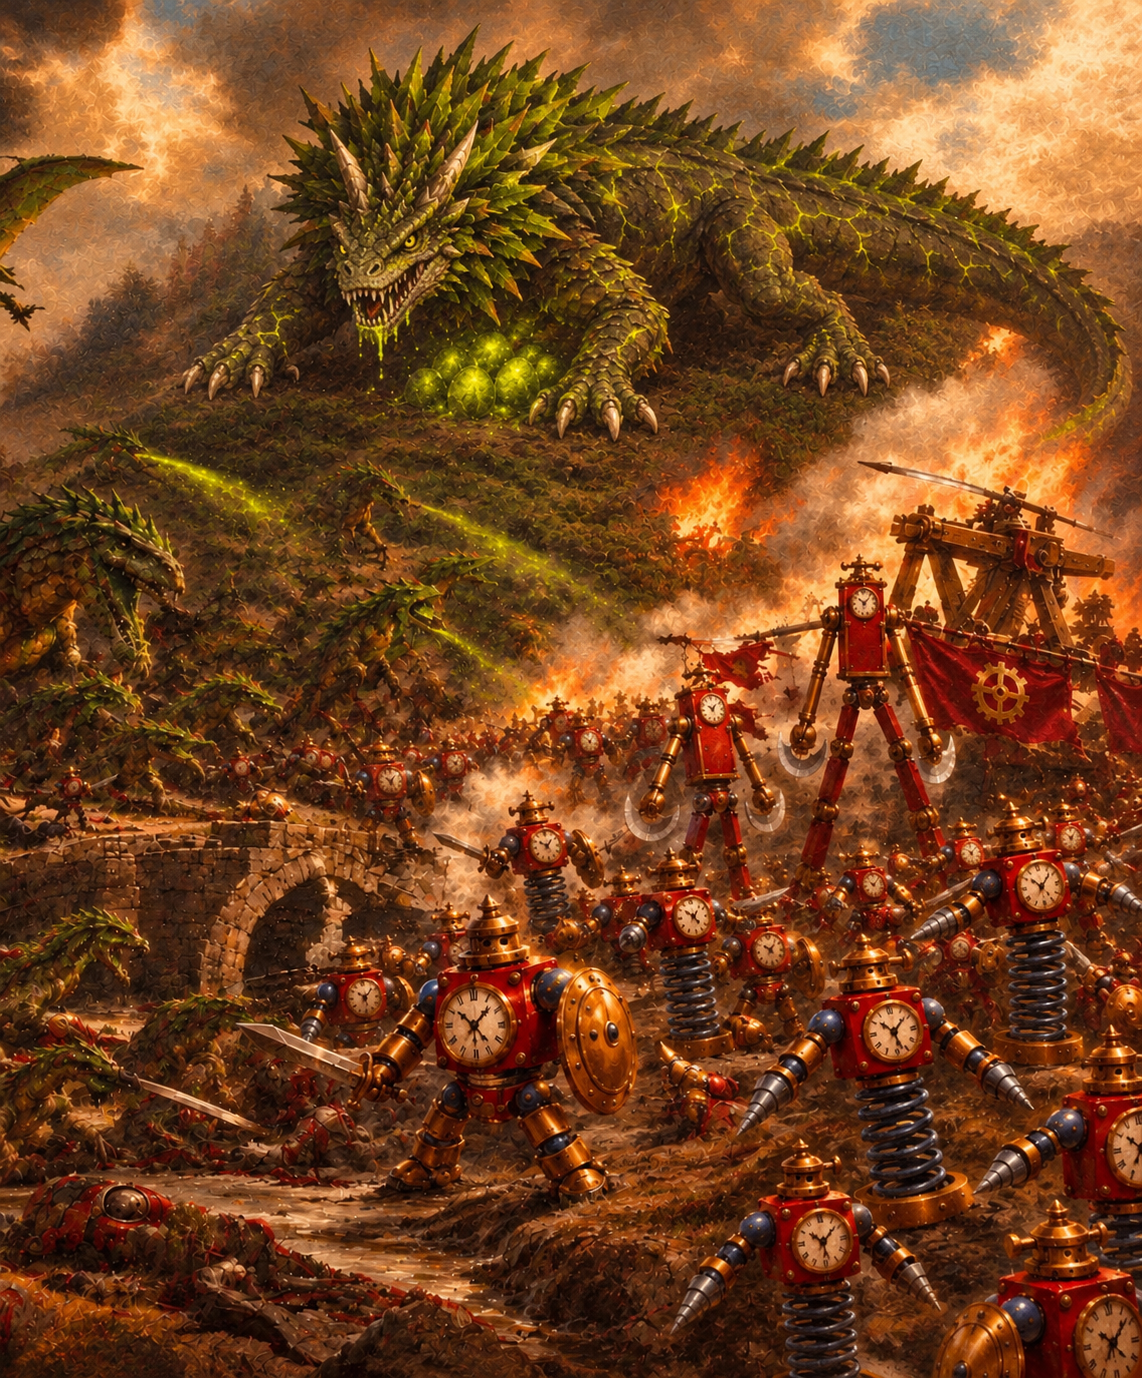
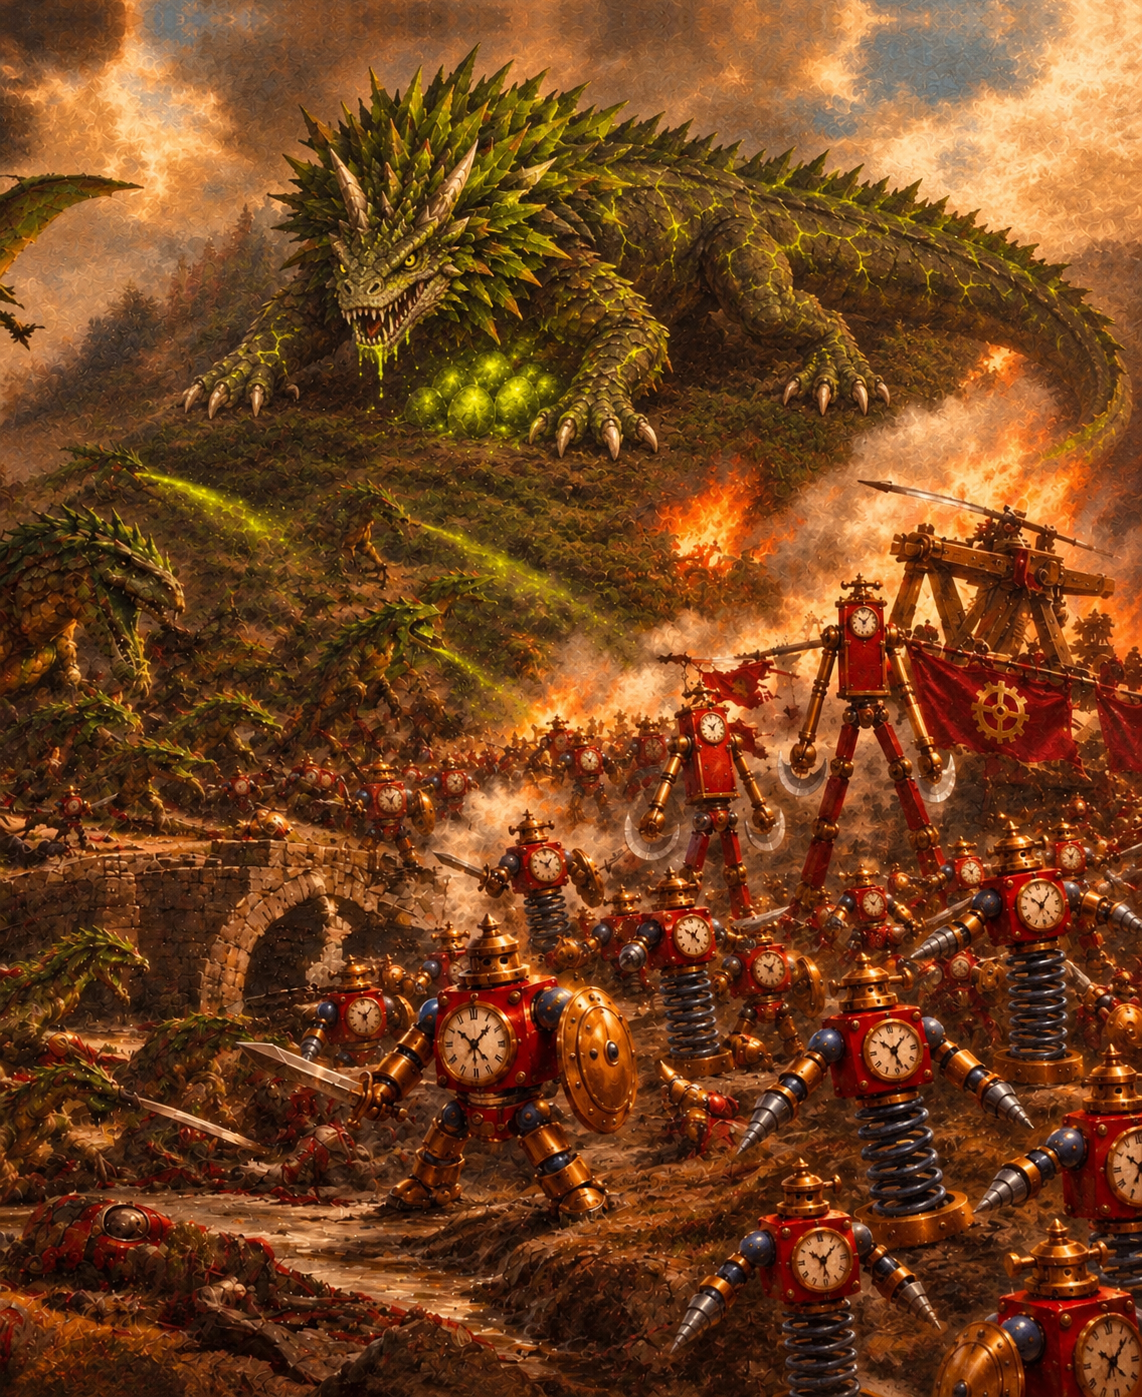
0.33.33: the ghost spikes behind the Brood Mother removed (the repaint now reaches the painting's top edge)
Claude-Session: https://claude.ai/code/session_01NtmEZhP1uA8k4DLQ7BYfMz

diff --git a/README.md b/README.md
@@ -2,7 +2,7 @@
 
 *(a working title: the game was called Holdfast until October 2026, but that name belongs to another game; the web address, the app file and the repository keep the old name for now so links and installs keep working)*
 
-**Play in your browser (version 0.33.32): https://holdfastrts.github.io/Holdfast/**
+**Play in your browser (version 0.33.33): https://holdfastrts.github.io/Holdfast/**
 
 **Windows program: https://holdfastrts.github.io/Holdfast/Holdfast_windows.zip** (rebuilt on every push; unzip it and run Holdfast.exe; if Windows warns "Windows protected your PC", click More info, then Run anyway)
 
